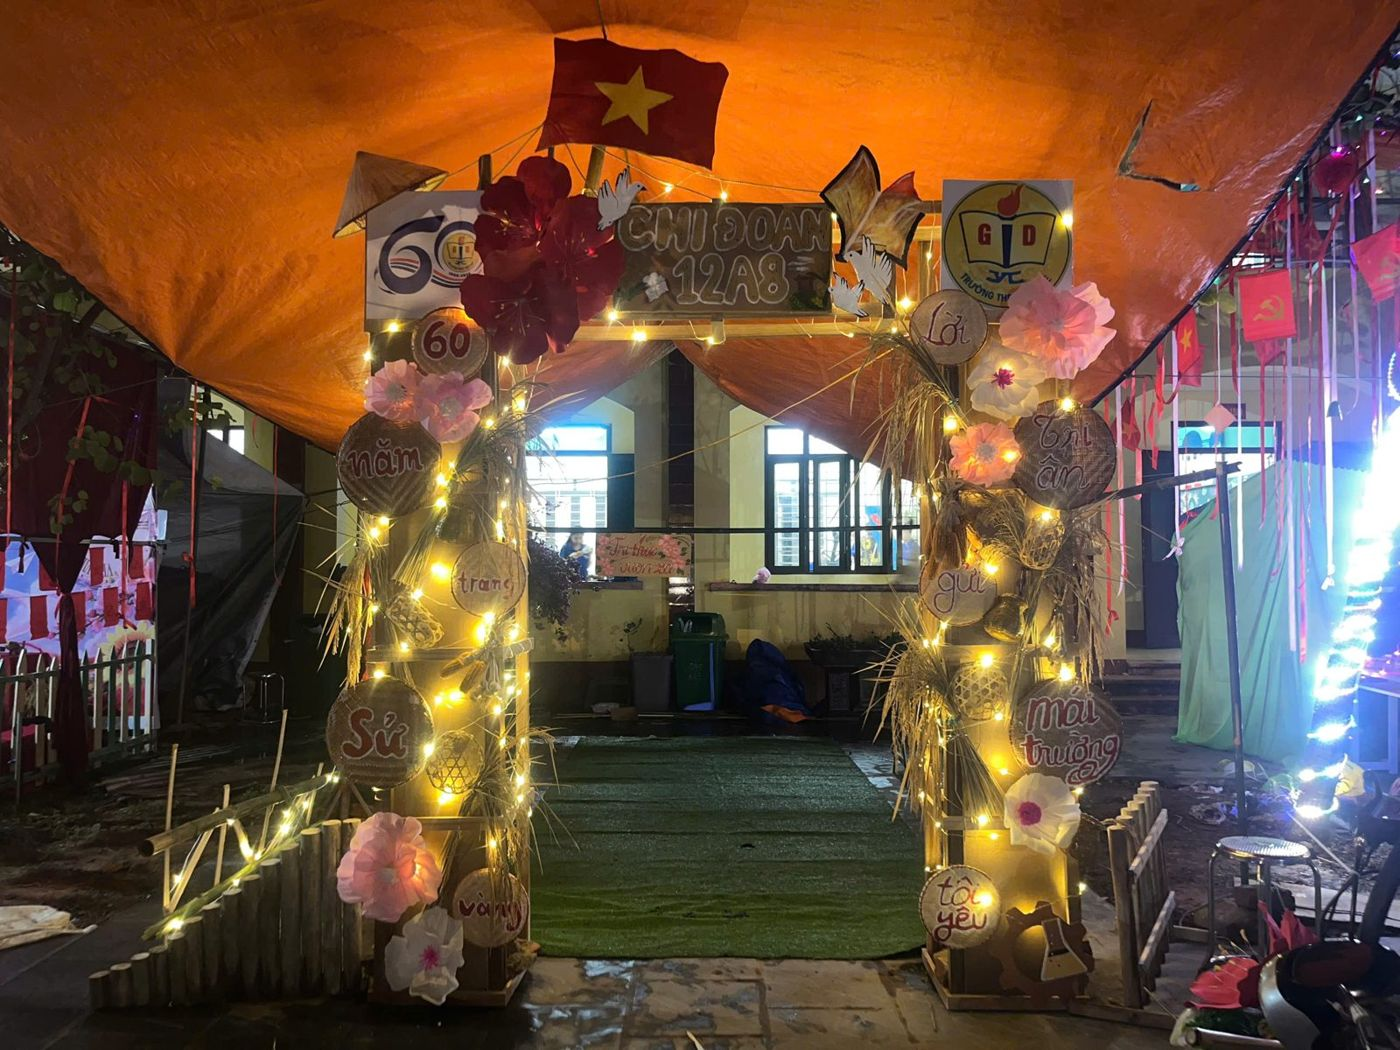
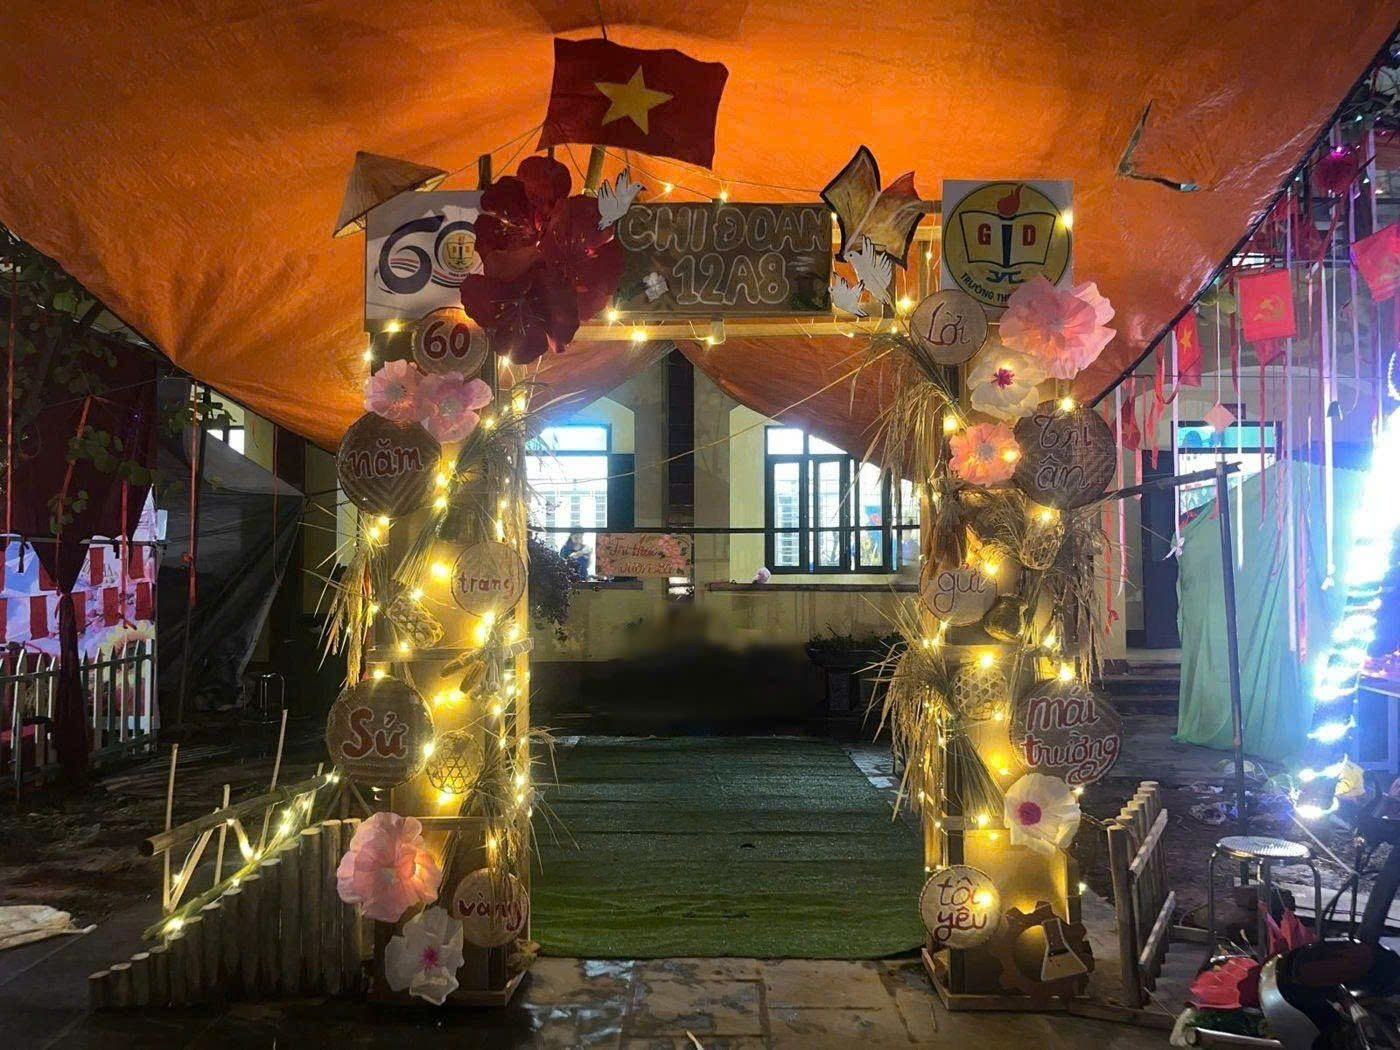
Thay ảnh cổng trại, viết lại phần giới thiệu cổng
Claude-Session: https://claude.ai/code/session_015vXDWqfBqqKduDGQystF22

diff --git a/index.html b/index.html
@@ -46,11 +46,11 @@
 
 <section class="sec gate" id="cong-trai">
   <div class="wrap">
-    <div class="pic" data-reveal="clip"><img class="ph-img zoom" src="img/cong-trai.jpg" alt="Cổng trại lớp 12A8 với con số 60, đèn và hoa" loading="lazy"></div>
+    <div class="pic" data-reveal="clip"><img class="ph-img zoom" src="img/cong-trai.jpg" alt="Cổng trại Chi đoàn 12A8 lên đèn, hai cột kết rơm, lúa và hoa giấy" loading="lazy"></div>
     <div class="text">
       <p class="kicker" data-reveal style="color:var(--red)">Cổng trại</p>
       <h2 class="h-m"><span class="rise"><span>Lời tri ân gửi mái trường</span></span></h2>
-      <p data-reveal>Nổi bật ở trung tâm là con số <b>60</b> cùng tên trường và hai mốc thời gian <b>1966 – 2026</b>, đánh dấu hành trình sáu thập kỷ xây dựng và phát triển.</p>
+      <p data-reveal>Trên cao là tấm biển <b>Chi đoàn 12A8</b>, lá cờ đỏ sao vàng, chiếc nón lá, biểu trưng <b>60 năm</b> và huy hiệu trường. Hai cột cổng kết bằng rơm, bông lúa, hoa giấy và dây đèn, ghép thành hai lời nhắn: <b>“60 năm trang sử vàng”</b> và <b>“Lời tri ân gửi mái trường tôi yêu”</b>.</p>
       <p data-reveal>Hình ảnh cuốn sách tượng trưng cho tri thức, còn chim bồ câu gửi gắm khát vọng hòa bình, tự do và vươn xa — tri thức sẽ chắp cánh cho những ước mơ bay cao, bay xa.</p>
       <p data-reveal><b>Trân trọng truyền thống, tự hào hiện tại và vững bước hướng tới tương lai.</b></p>
     </div>
